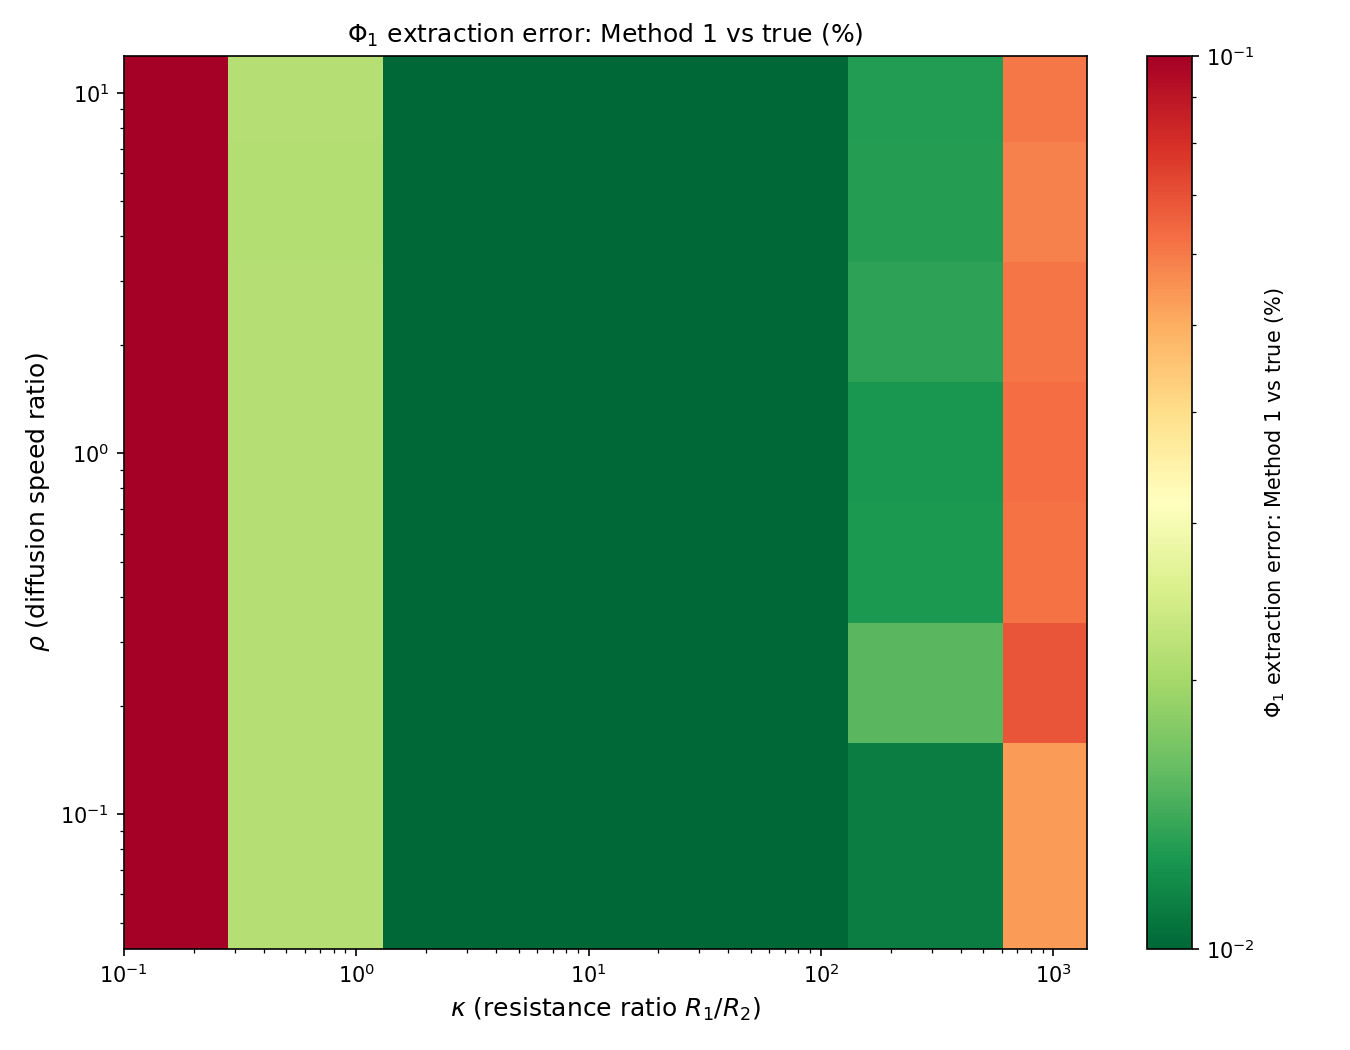
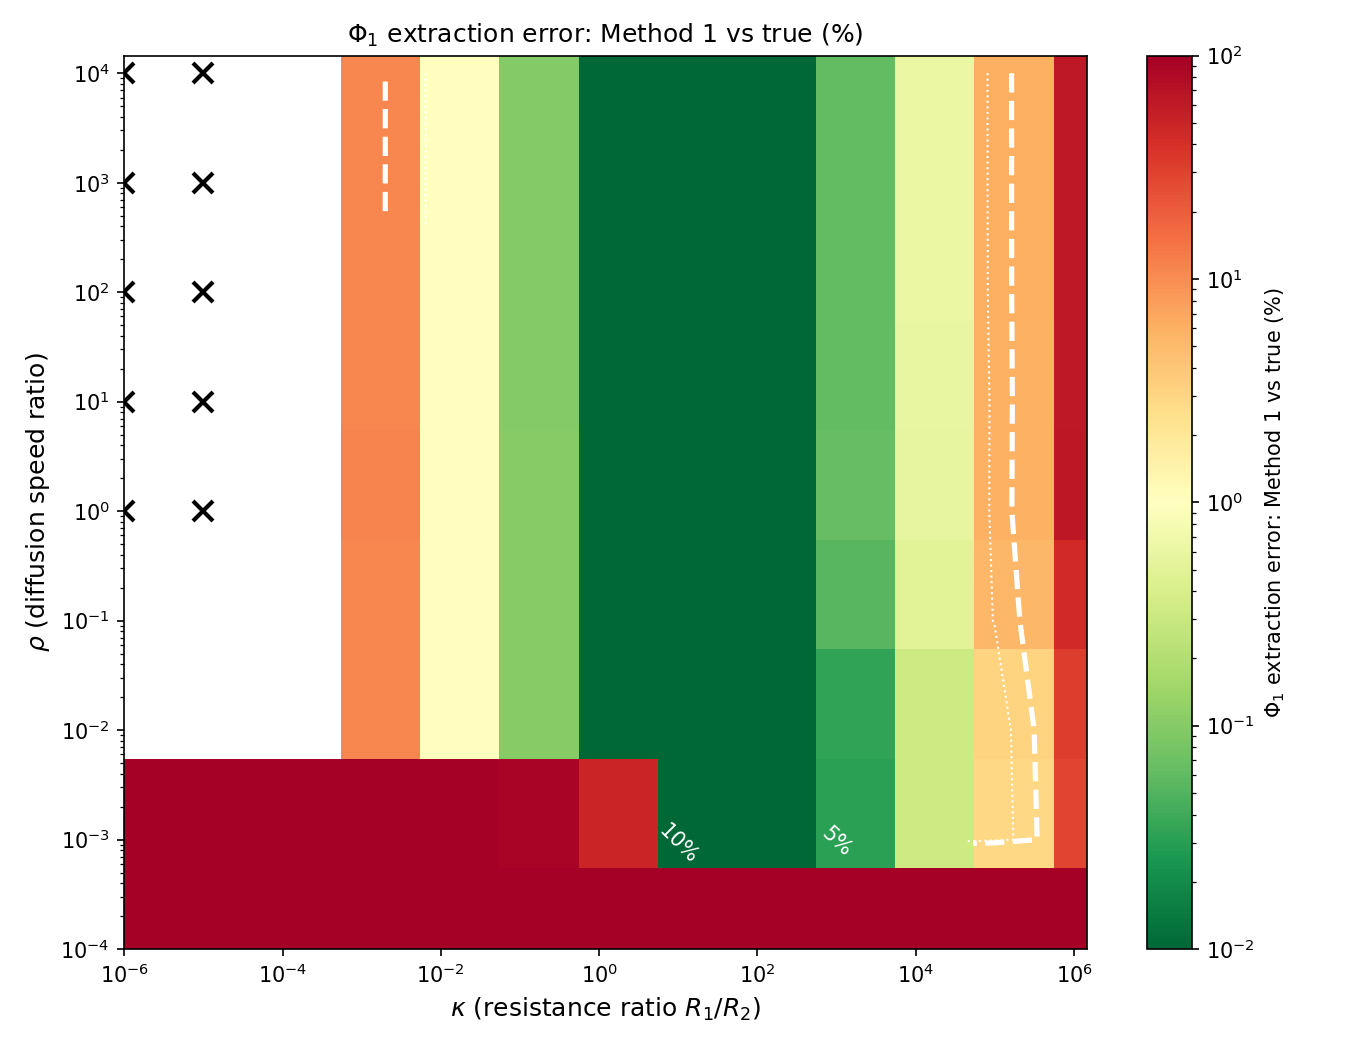
simulation working well

diff --git a/python/analysis/sensitivity_sweep.py b/python/analysis/sensitivity_sweep.py
@@ -200,7 +200,7 @@ def method1_extract(tau_bi, Jss_bi, D_known, S_known,
             den = ell2*D1 + K*ell1*D2
             return (num/den - tau_bi)**2
 
-    res = minimize_scalar(obj, bounds=(np.log(1e-20), np.log(1e0)),
+    res = minimize_scalar(obj, bounds=(np.log(1e-20), np.log(1e2)),
                           method="bounded")
     D_ext = np.exp(res.x)
     S_ext = Phi_unknown / D_ext
@@ -221,6 +221,8 @@ def main():
     tau_2_num, Jss_2_num = extract_timelag_and_Jss(t_s, f_s)
     D2_cal = ELL**2 / (6 * tau_2_num)
     S2_cal = (Jss_2_num * ELL / np.sqrt(P_UP)) / D2_cal
+    print(f"  τ_num = {tau_2_num:.3e} (analytical: {tau_2_ana:.3e}, "
+          f"err: {abs(tau_2_num - tau_2_ana)/tau_2_ana*100:.2f}%)")
     print(f"  D2 = {D2_cal:.3e} (true: {D2_REF:.3e}, "
           f"err: {abs(D2_cal - D2_REF)/D2_REF*100:.1f}%)")
     print(f"  S2 = {S2_cal:.3e} (true: {S2_REF:.3e}, "
@@ -228,8 +230,8 @@ def main():
     print()
 
     # --- 2D grid ---
-    kappa_vals = np.logspace(-1, 3, 7)
-    rho_vals = np.logspace(-1, 1, 7)
+    kappa_vals = np.logspace(-6, 6, 13)
+    rho_vals = np.logspace(-4, 4, 9)
 
     n_kap = len(kappa_vals)
     n_rho = len(rho_vals)
@@ -363,6 +365,13 @@ def main():
         print(f"Saved: {path}")
         plt.close()
 
+    print("\n--- Single-layer substrate calibration summary ---")
+    print(f"  τ_num = {tau_2_num:.3e} (analytical: {tau_2_ana:.3e}, "
+          f"err: {abs(tau_2_num - tau_2_ana)/tau_2_ana*100:.2f}%)")
+    print(f"  D2 = {D2_cal:.3e} (true: {D2_REF:.3e}, "
+          f"err: {abs(D2_cal - D2_REF)/D2_REF*100:.1f}%)")
+    print(f"  S2 = {S2_cal:.3e} (true: {S2_REF:.3e}, "
+          f"err: {abs(S2_cal - S2_REF)/S2_REF*100:.1f}%)")
     print("\nDone.")
 
 
